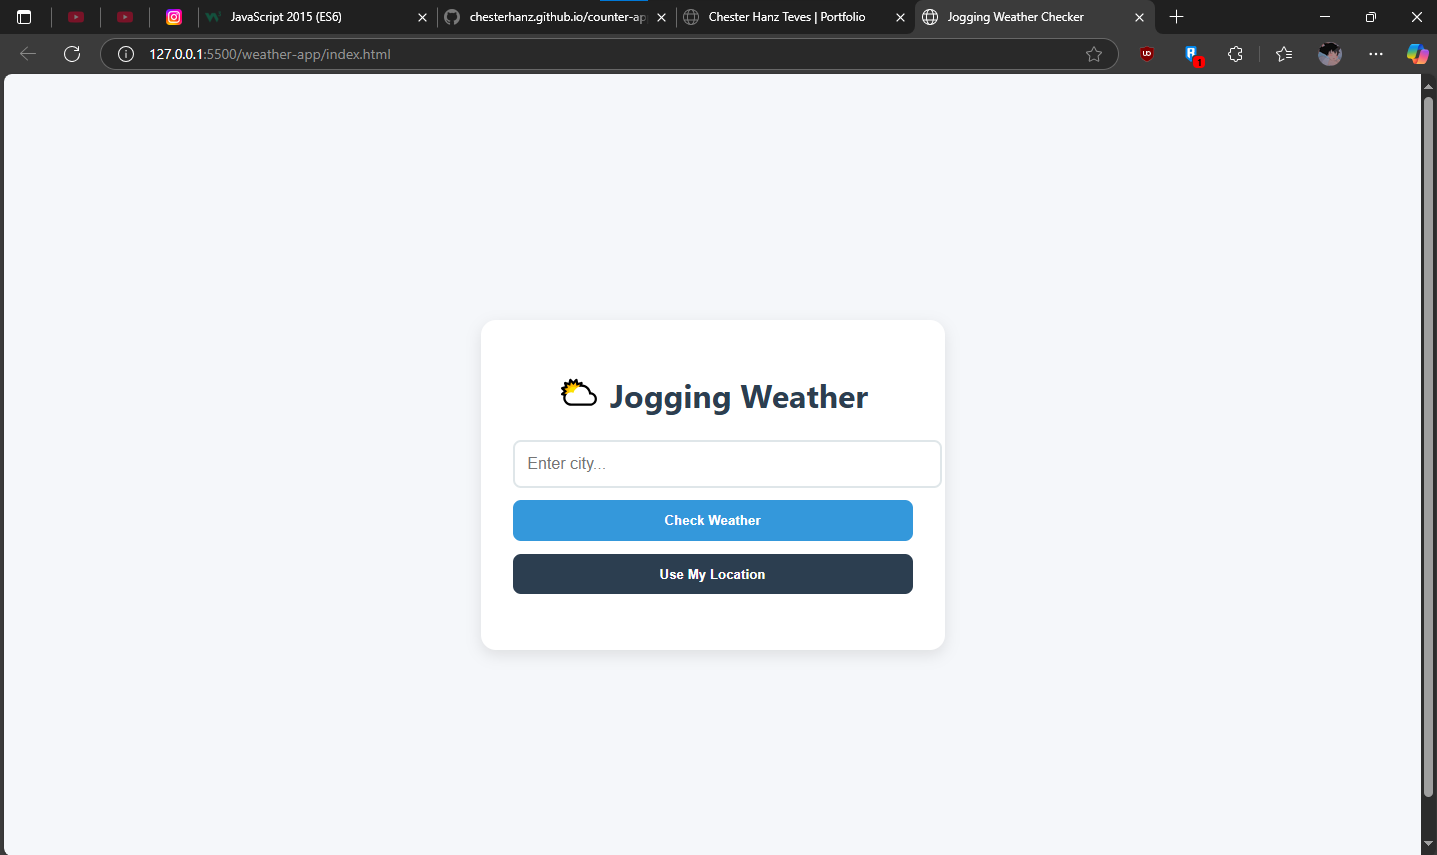
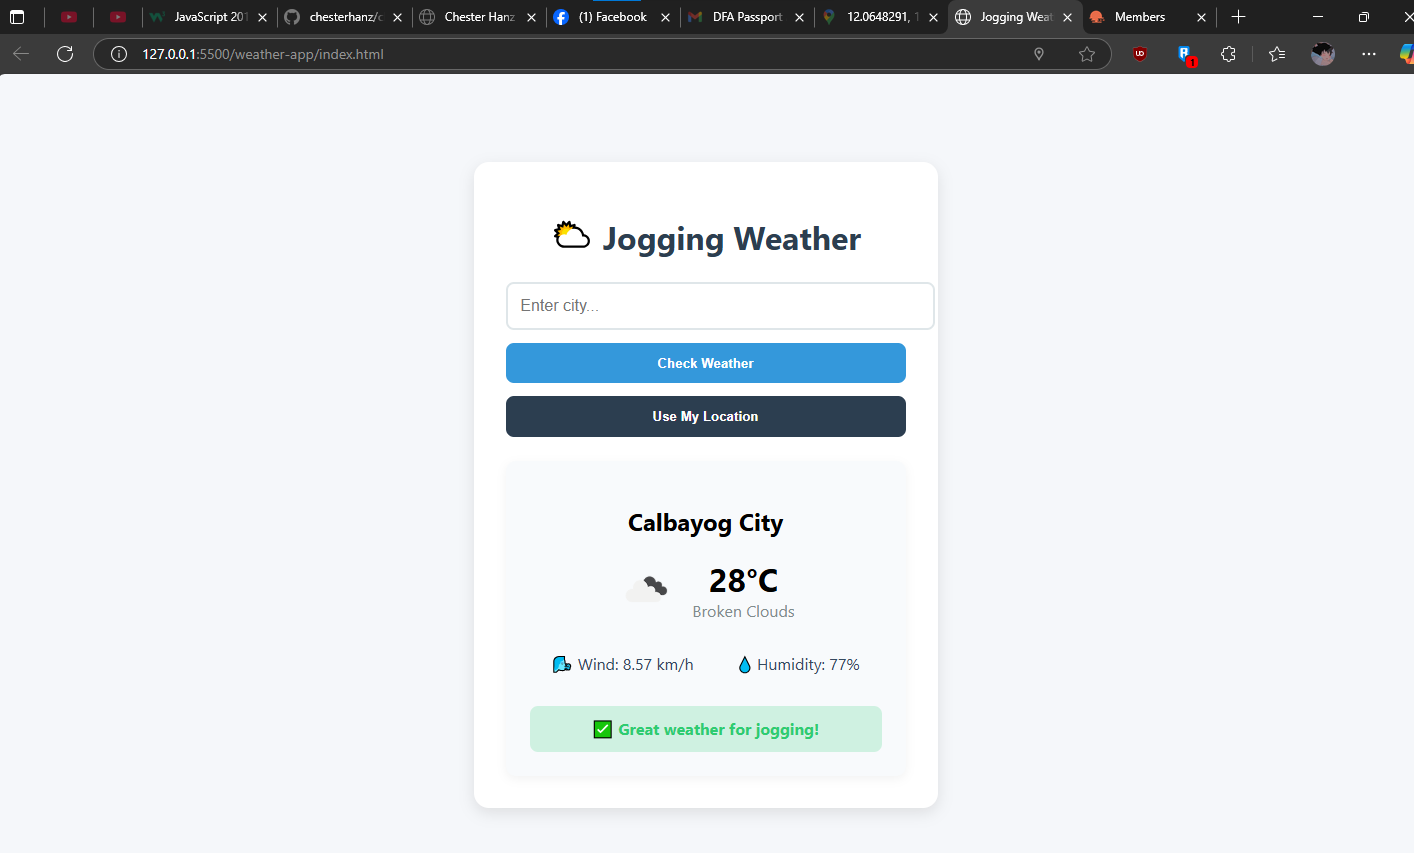
Updating Portfolio, Adding the Weather App using HTML, CSS and JavaScript and adding API

diff --git a/weather-app/script.js b/weather-app/script.js
@@ -1,4 +1,4 @@
-const API_KEY = 'YOUR_OPENWEATHER_API_KEY'; // Get from https://openweathermap.org/
+const API_KEY = '232fd12faa92a848e25b5c3df4a2199f'; // Get from https://openweathermap.org/
 
 // DOM Elements
 const cityInput = document.getElementById('city-input');
